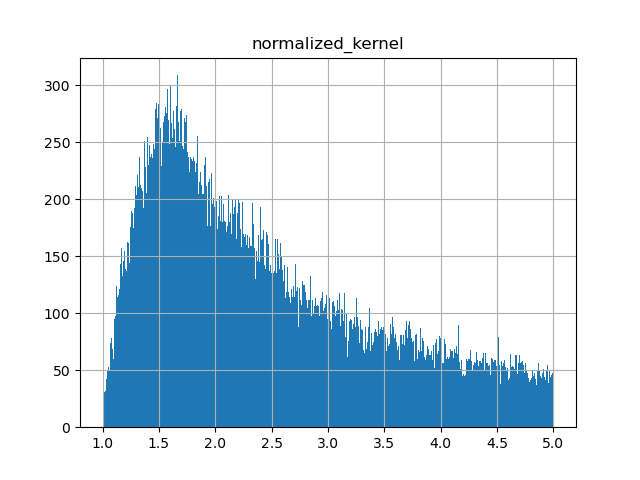
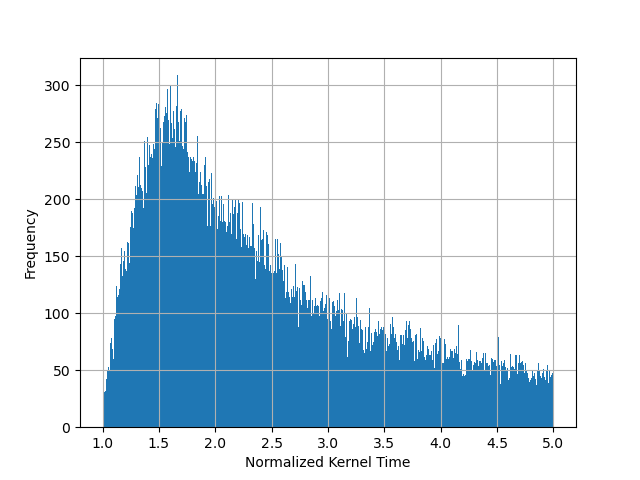
Add bullets for CPU experiments and update kernel time dist histogram

Changed region(s): [[0.4062, 0.0625, 0.625, 0.125], [0.375, 0.9375, 0.6562, 0.9688], [0.0312, 0.4375, 0.0625, 0.5938]]

diff --git a/docs/SOSP 2024/results.tex b/docs/SOSP 2024/results.tex
@@ -55,9 +55,9 @@ We also evaluate \Treebeard{} on a set of randomly generated models.
   \item Figure \ref{Fig:KernelTimeIndividualBenchmarks4060} shows that \Treebeard{} outperforms RAPIDs and Tahoe on 
   individual benchmarks on the RTX 4060 at small (1024) and large (8192) batch sizes. These batch sizes 
   require different schedules, but the \Treebeard{} auto-tuning heuristic is able to find them.
-  \item Figure \ref{Fig:TotalTimeIndividualBenchmarks4060} compares the total time of \Treebeard{} vs RAPIDs on individual benchmarks. 
-  It shows that even with the overhead of data transfers, \Treebeard{} offers significant speedup. The graph in Figure \ref{Fig:TotalTimeIndividualBenchmarks4060} 
-  shows the breakup of the total time into kernel time and data transfer time.
+  % \item Figure \ref{Fig:TotalTimeIndividualBenchmarks4060} compares the total time of \Treebeard{} vs RAPIDs on individual benchmarks. 
+  % It shows that even with the overhead of data transfers, \Treebeard{} offers significant speedup. The graph in Figure \ref{Fig:TotalTimeIndividualBenchmarks4060} 
+  % shows the breakup of the total time into kernel time and data transfer time.
 \end{itemize}
 
 \begin{figure}[htb]
@@ -96,20 +96,20 @@ We also evaluate \Treebeard{} on a set of randomly generated models.
   \label{Fig:TBvsRAPIDsTahoe_T400_Speedup}
 \end{figure}
 
-\begin{figure*}[ht]
-  \centering
-  \begin{subfigure}[b]{.45\textwidth}
-    \subcaptionbox*{}{\includegraphics[width=\textwidth]{figures/abs_times_bar_graph_1024.png}}
-    \caption{Batch size 1024.}
-  \end{subfigure}
-  \begin{subfigure}[b]{.45\textwidth}
-    \subcaptionbox*{}{\includegraphics[width=\textwidth]{figures/abs_times_bar_graph_8192.png}}
-    \caption{Batch size 8192.}
-  \end{subfigure}
-  \hfill
-  \caption{\label{Fig:TotalTimeIndividualBenchmarks4060}\Treebeard{} vs RAPIDs total time comparison on NVIDIA RTX 4060. Numbers on the bars are the times 
-  per sample in $\mu$s for \Treebeard{} and RAPIDs. Times for each benchmark are normalized w.r.t the RAPIDs time for that benchmark.}
-\end{figure*}
+% \begin{figure*}[ht]
+%   \centering
+%   \begin{subfigure}[b]{.45\textwidth}
+%     \subcaptionbox*{}{\includegraphics[width=\textwidth]{figures/abs_times_bar_graph_1024.png}}
+%     \caption{Batch size 1024.}
+%   \end{subfigure}
+%   \begin{subfigure}[b]{.45\textwidth}
+%     \subcaptionbox*{}{\includegraphics[width=\textwidth]{figures/abs_times_bar_graph_8192.png}}
+%     \caption{Batch size 8192.}
+%   \end{subfigure}
+%   \hfill
+%   \caption{\label{Fig:TotalTimeIndividualBenchmarks4060}\Treebeard{} vs RAPIDs total time comparison on NVIDIA RTX 4060. Numbers on the bars are the times 
+%   per sample in $\mu$s for \Treebeard{} and RAPIDs. Times for each benchmark are normalized w.r.t the RAPIDs time for that benchmark.}
+% \end{figure*}
 
 \begin{figure}[htb]
   \centering
@@ -142,3 +142,13 @@ We also evaluate \Treebeard{} on a set of randomly generated models.
 \end{figure}
 
 \subsection{CPU Improvements}
+\begin{itemize}
+  \item The ability of \Treebeard{} to parallelize across both trees and rows has a significant impact on CPU performance.
+  \item We run experiments on the Intel Core i9-11900K processor to evaluate the impact of parallelizing across trees with small batch sizes. 
+  \item At batch size 32, we find that the average speedup over all 8 models is 2.2$\times$ with a max speedup of 5$\times$.
+  \item At batch size 64, we find that the average speedup over all 8 models is 1.1$\times$ with a max speedup of 2$\times$. 
+  However, we find that 2 of the 8 models show slowdowns in this case. Again, this highlights the need for schedule exploration on CPUs.
+  \item For small batch sizes, parallelizing across rows does not work great since there is limited reuse of trees in L1 cache.
+  Also, the amount of work per thread is very small leading to high overheads. 
+  \item Parallelizing across trees is more effective since there is more reuse in L1 cache and the amount of work per thread is higher.  
+\end{itemize}
